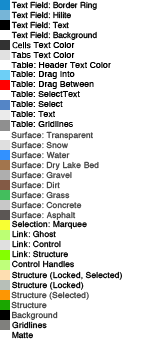
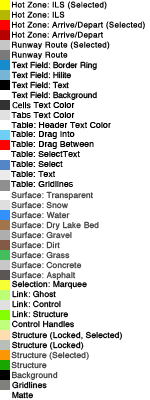
coloring for future taxi routing.

diff --git a/src/WEDMap/WED_StructureLayer.cpp b/src/WEDMap/WED_StructureLayer.cpp
@@ -53,6 +53,7 @@
 #include "WED_AirportBeacon.h"
 #include "WED_DrawUtils.h"
 #include "GUI_DrawUtils.h"
+#include "WED_TaxiRoute.h"
 
 #if APL
 	#include <OpenGL/gl.h>
@@ -775,6 +776,22 @@ bool		WED_StructureLayer::DrawEntityStructure		(bool inCurrent, IGISEntity * ent
 			IGISEdge * gisedge = SAFE_CAST(IGISEdge, ps);
 			
 			bool one_way = gisedge != NULL && gisedge->IsOneway();
+
+			#if AIRPORT_ROUTING
+			bool hot = false;
+			bool ils = false;
+			bool rwy = false;
+			WED_TaxiRoute * tr = SAFE_CAST(WED_TaxiRoute, gisedge);
+			if(tr)
+			{
+				hot = tr->HasHotDepart() || tr->HasHotArrival();
+				rwy = tr->IsRunway();
+				ils = tr->HasHotILS();
+			}
+			if(hot)				struct_color = selected ? wed_Hotzone_Selected : wed_Hotzone;
+			else if(ils)		struct_color = selected ? wed_ILSzone_Selected : wed_ILSzone;
+			else if (rwy)		struct_color = selected ? wed_Runway_Selected : wed_Runway;
+			#endif
 			
 			int i, n = ps->GetNumSides();
 			for (i = 0; i < n; ++i)

diff --git a/src/WEDEntities/WED_TaxiRoute.cpp b/src/WEDEntities/WED_TaxiRoute.cpp
@@ -198,5 +198,25 @@ bool	WED_TaxiRoute::IsOneway(void) const
 	return oneway.value;
 }
 
+bool	WED_TaxiRoute::IsRunway(void) const
+{
+	return runway.value != atc_rwy_None;
+}
+
+bool	WED_TaxiRoute::HasHotArrival(void) const
+{
+	return !hot_arrive.value.empty();
+}
+
+bool	WED_TaxiRoute::HasHotDepart(void) const
+{
+	return !hot_depart.value.empty();
+}
+
+bool	WED_TaxiRoute::HasHotILS(void) const
+{
+	return !hot_ils.value.empty();
+}
+
 
 #endif

diff --git a/src/WEDMap/WED_Colors.h b/src/WEDMap/WED_Colors.h
@@ -64,6 +64,14 @@ enum WED_Color {
 	wed_TextField_Text,
 	wed_TextField_Hilite,
 	wed_TextField_FocusRing,
+	
+	wed_Runway,						// In a future version these will be used to color airport taxi routing lines for some of their special properties.
+	wed_Runway_Selected,
+	wed_Hotzone,
+	wed_Hotzone_Selected,
+	wed_ILSzone,
+	wed_ILSzone_Selected,
+
 
 	wed_Last
 };

diff --git a/src/WEDEntities/WED_TaxiRoute.h b/src/WEDEntities/WED_TaxiRoute.h
@@ -40,6 +40,10 @@ public:
 	void		Export(		 AptRouteEdge_t& info) const;
 	
 	virtual		bool	IsOneway(void) const;
+				bool	IsRunway(void) const;
+				bool	HasHotArrival(void) const;
+				bool	HasHotDepart(void) const;
+				bool	HasHotILS(void) const;
 	
 				void		SetOneway(int p);
 				void		SetRunway(int r);
